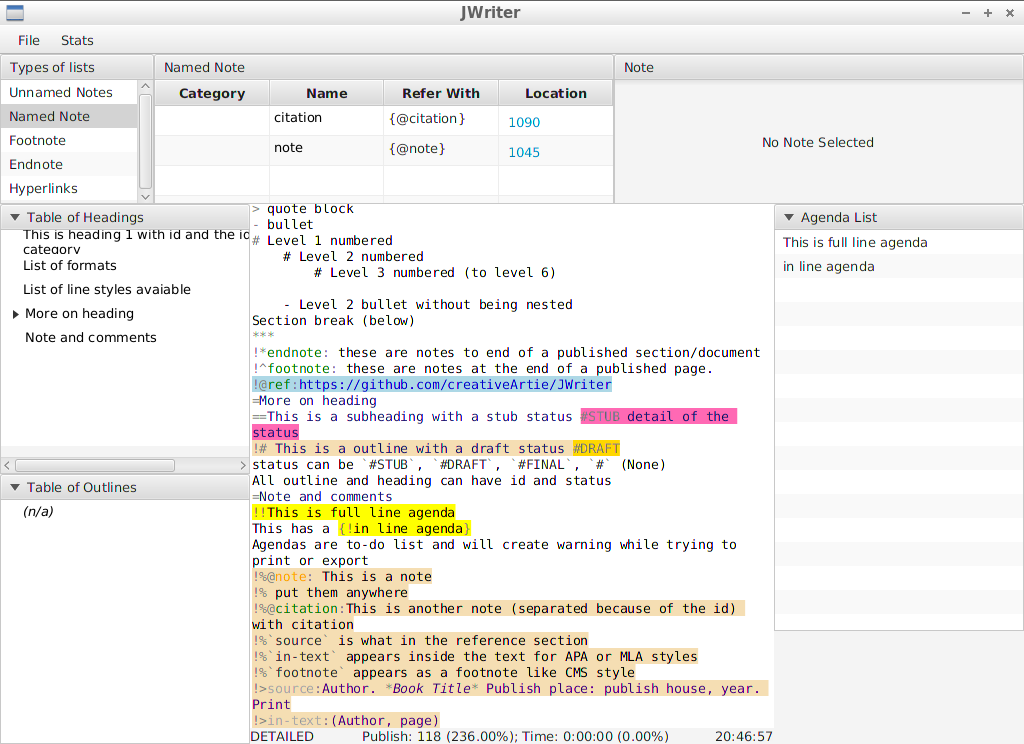
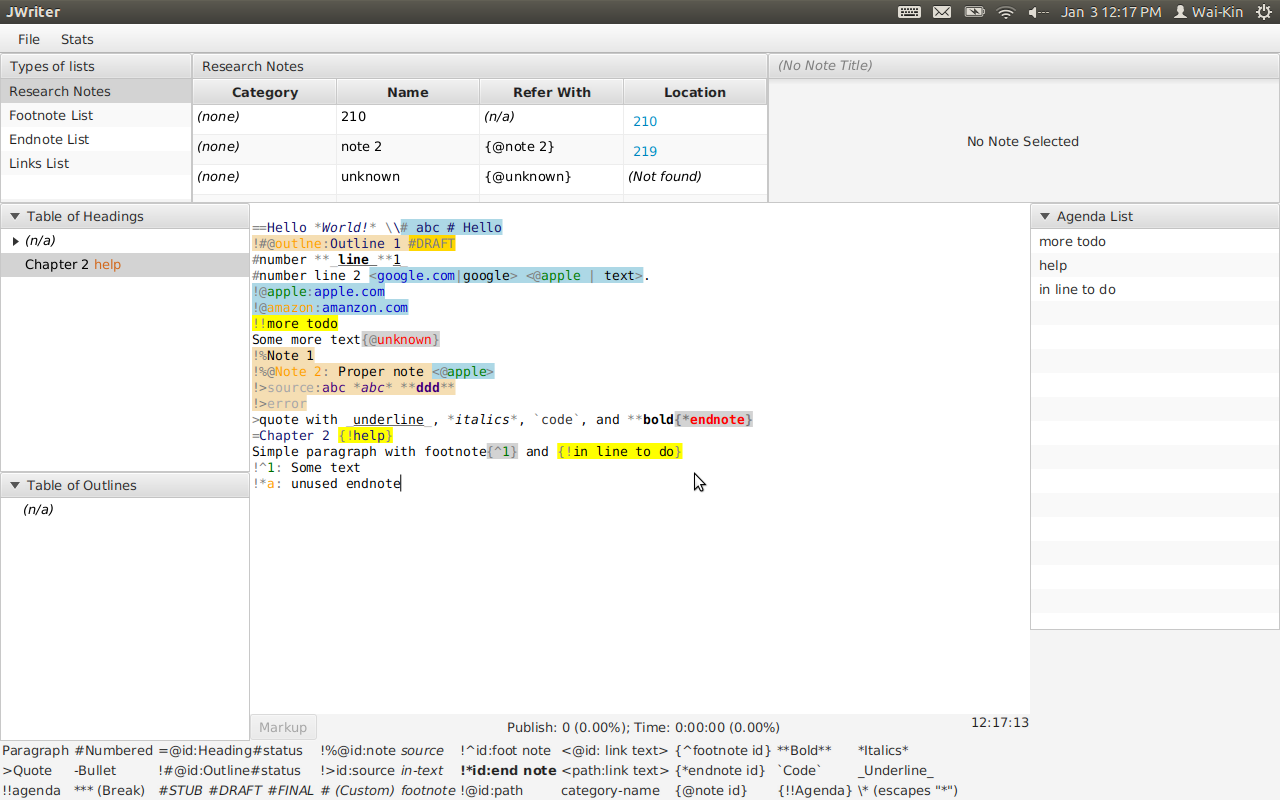
Prepare for 0.3.1 release

diff --git a/src/com/creativeartie/jwriter/main/Main.java b/src/com/creativeartie/jwriter/main/Main.java
@@ -29,8 +29,8 @@ public class Main extends Application{
         stage.setTitle(WindowText.PROGRAM_NAME.getText());
 
         // testStatsWindow(stage);
-        testMainWindow(stage);
-        // setupWindow(stage, ManuscriptFile.newFile());
+        // testMainWindow(stage);
+        setupWindow(stage, ManuscriptFile.newFile());
     }
 
     @Deprecated

diff --git a/README.md b/README.md
@@ -144,4 +144,5 @@ in the alphabethical order and are not case sensitive. The syntax of an id is
 
 ## Screen shots
 ![Main Window](design/main.png)
-![Stats Window](design/stats.png)
+![Stats For Current Month](design/today.png)
+![Stats For Past Month](design/month.png)
